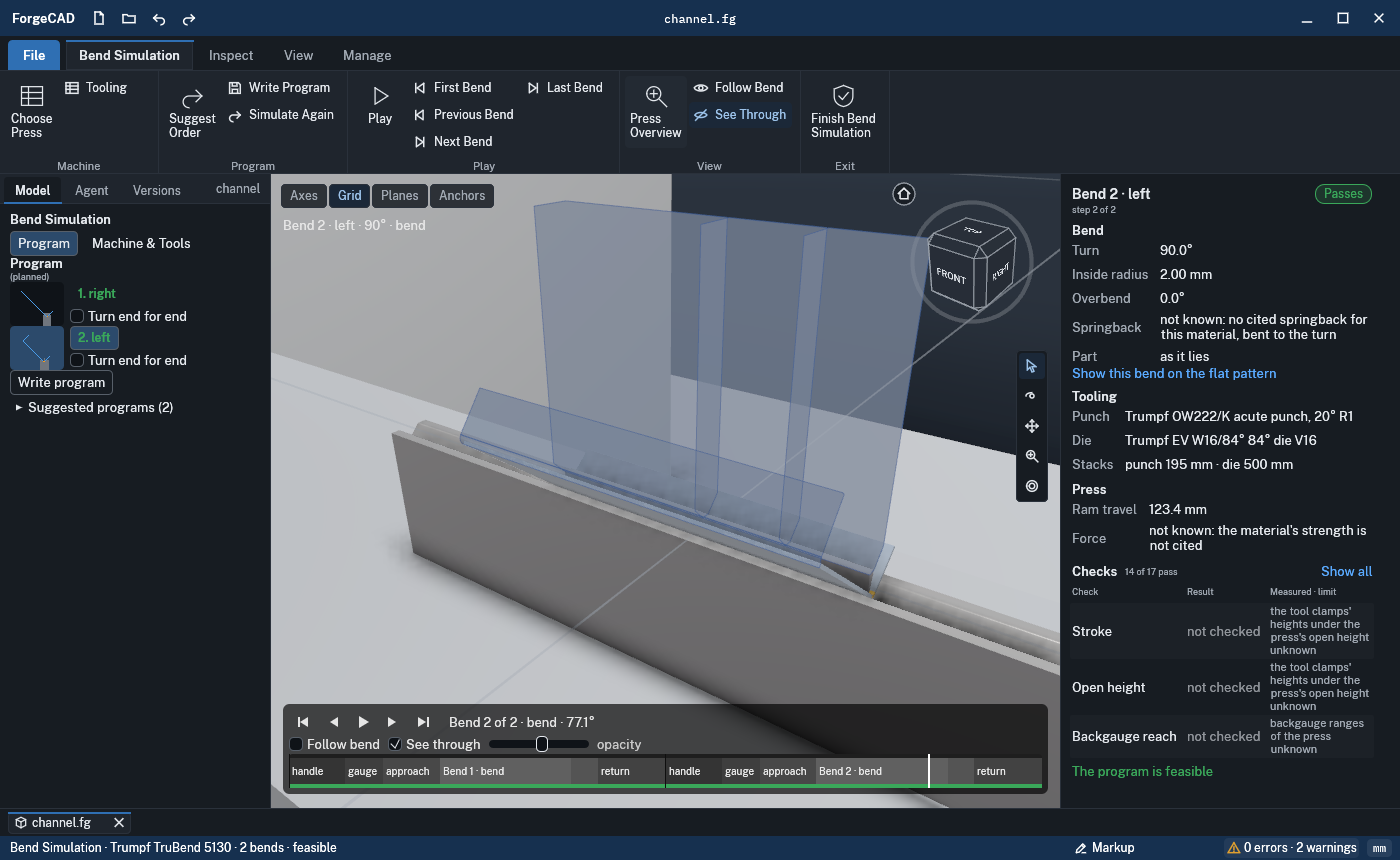
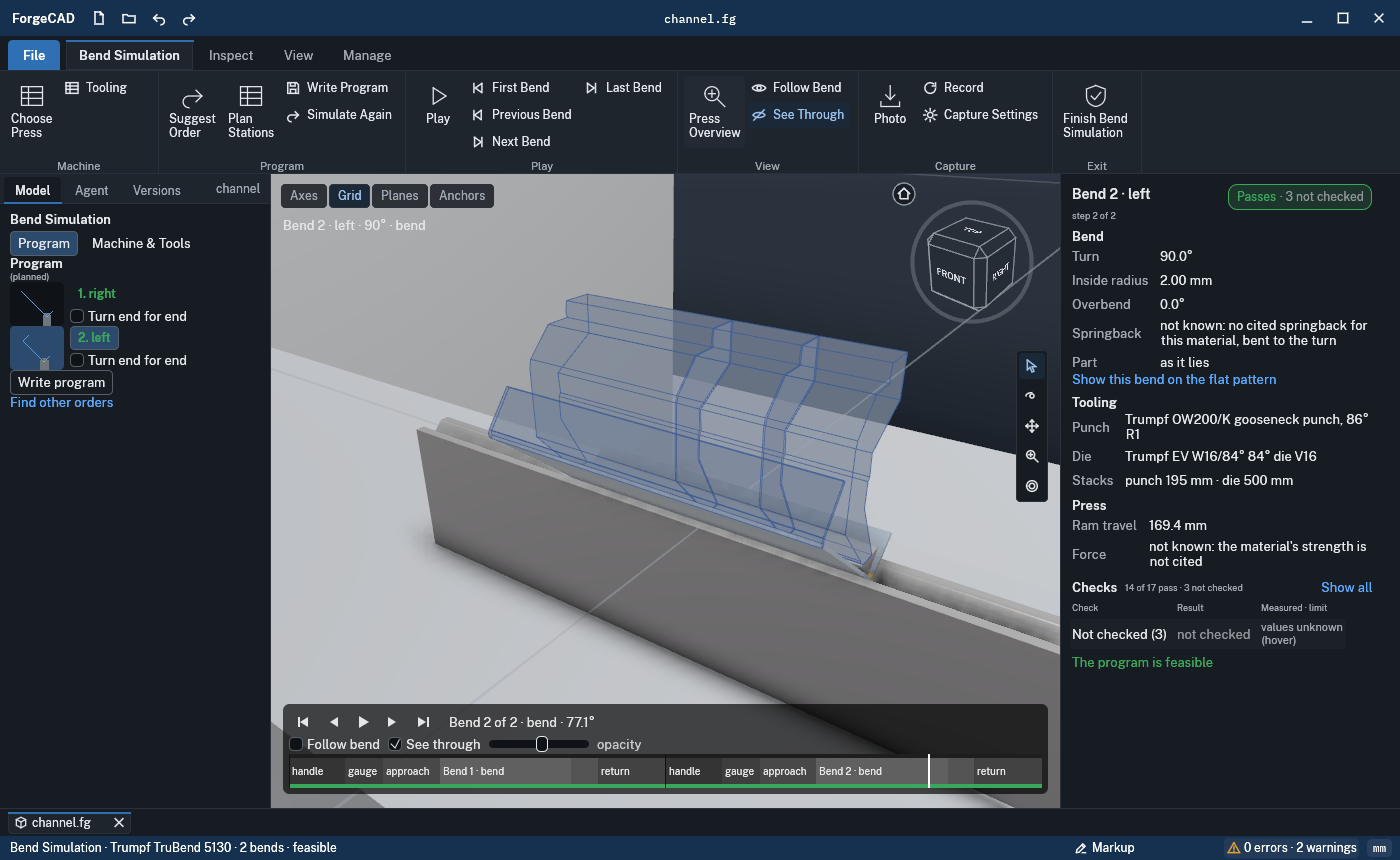
bendsim Checks: the checks that could not run collapsed into one row, "Not checked (3)", each with what is unknown on hover (UX-LEAD's markup of the station audit)
Claude-Session: https://claude.ai/code/session_01WJtawvw7eU93rVnY2Eejbc

diff --git a/interface/forge-render/src/shell/bendsim.rs b/interface/forge-render/src/shell/bendsim.rs
@@ -1798,7 +1798,45 @@ pub fn bend_sheet(ui: &mut egui::Ui, t: &Theme, st: &mut BendSimUi) -> Option<St
                     ui.label(egui::RichText::new(h).small().color(t.ink2));
                 }
                 ui.end_row();
+                // the checks that could not run collapsed into one row (UX-LEAD): they share a
+                // cause (a press or tool value unknown), each named on hover
+                let unchecked: Vec<&&fb::Check> = shown.iter().filter(|c| c.unchecked.is_some()).collect();
+                let mut unchecked_drawn = unchecked.len() < 2;
                 for c in &shown {
+                    if c.unchecked.is_some() && !unchecked_drawn {
+                        unchecked_drawn = true;
+                        let why: Vec<String> = unchecked
+                            .iter()
+                            .map(|c| {
+                                format!(
+                                    "{}: {} unknown",
+                                    cards::rule_label(c.rule),
+                                    c.unchecked.as_deref().unwrap_or("")
+                                )
+                            })
+                            .collect();
+                        let why = why.join("\n");
+                        ui.label(
+                            egui::RichText::new(format!("Not checked ({})", unchecked.len())).color(t.ink),
+                        )
+                        .on_hover_text(&why);
+                        ui.label(egui::RichText::new("not checked").color(look::MUTED))
+                            .on_hover_text(&why);
+                        ui.add(
+                            egui::Label::new(
+                                egui::RichText::new("values unknown (hover)")
+                                    .font(super::theme::caption())
+                                    .color(t.ink2),
+                            )
+                            .wrap(),
+                        )
+                        .on_hover_text(&why);
+                        ui.end_row();
+                        continue;
+                    }
+                    if c.unchecked.is_some() && unchecked.len() >= 2 {
+                        continue;
+                    }
                     let (col, verdict) = if c.pass {
                         (look::PASS, "pass")
                     } else if c.unchecked.is_some() {
